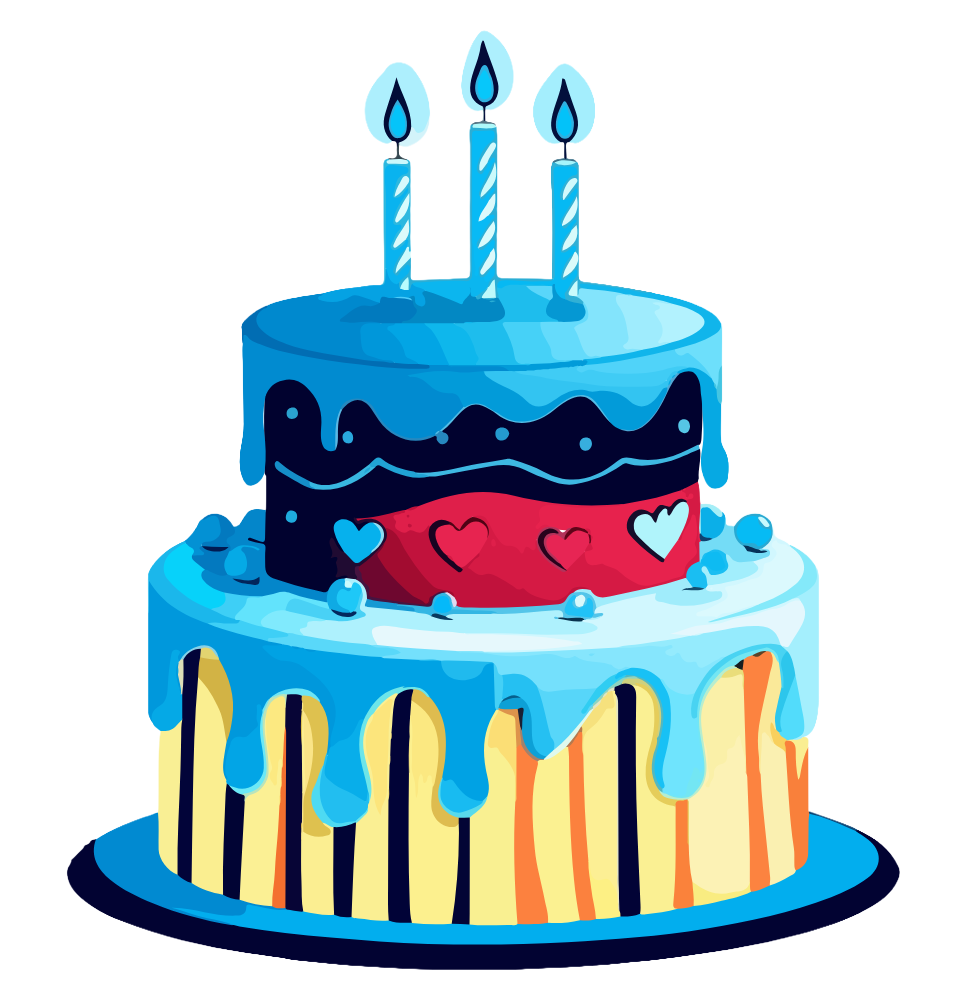
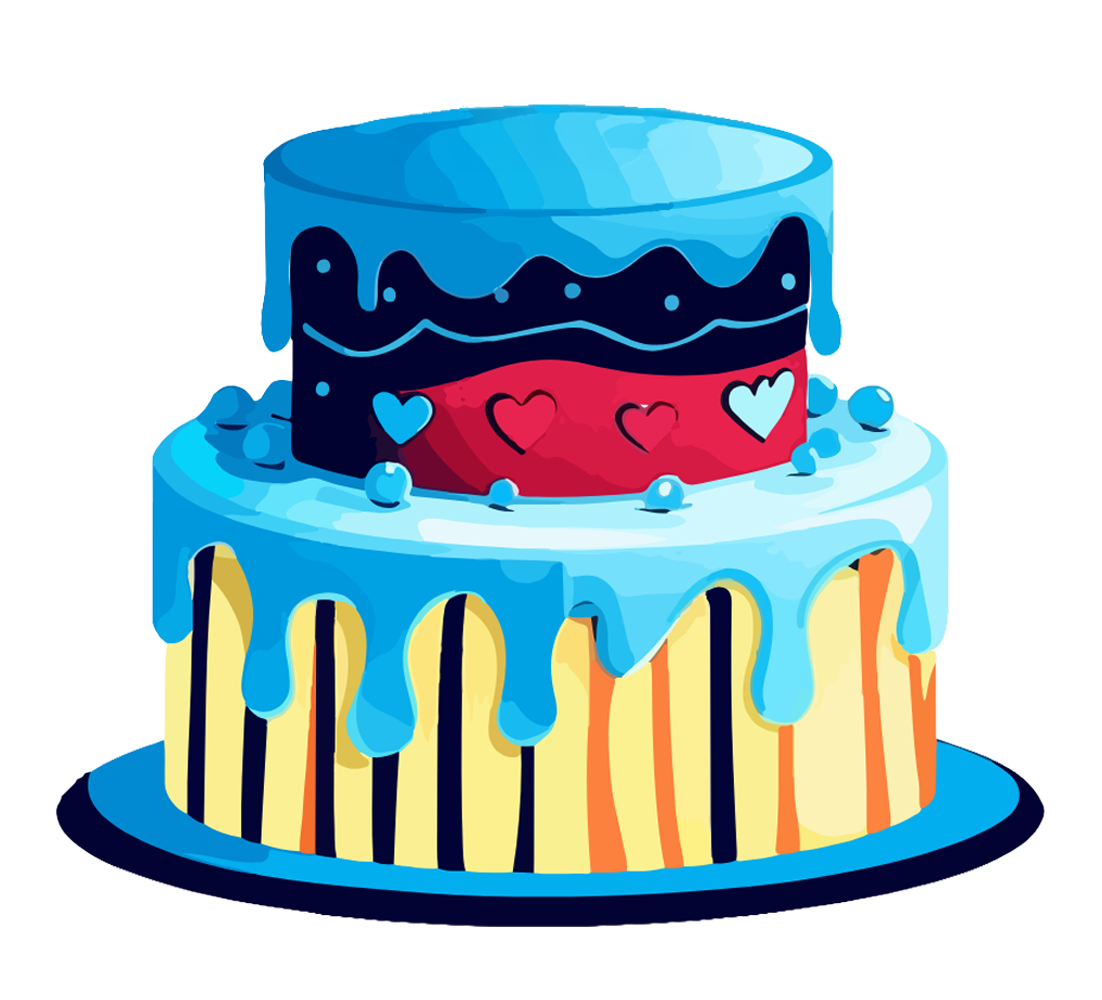
aggiorno colori

diff --git a/index.html b/index.html
@@ -28,13 +28,13 @@
             
             <div class="relative w-48 h-48 md:w-64 md:w-64 flex items-center justify-center group animate-float mt-4">
                 <div class="absolute -top-4 flex space-x-6 z-30">
-                    <div class="candle relative w-2 h-12 bg-gradient-to-t from-pink-400 to-amber-200 rounded-sm">
+                    <div class="candle relative w-2 h-12 bg-gradient-to-t from-sky-600 to-yellow-300 rounded-sm">
                         <div class="flame"></div>
                     </div>
-                    <div class="candle relative w-2 h-14 bg-gradient-to-t from-amber-200 to-pink-400 rounded-sm -top-2">
+                    <div class="candle relative w-2 h-14 bg-gradient-to-t from-yellow-300 to-sky-600 rounded-sm -top-2">
                         <div class="flame"></div>
                     </div>
-                    <div class="candle relative w-2 h-12 bg-gradient-to-t from-pink-400 to-amber-200 rounded-sm">
+                    <div class="candle relative w-2 h-12 bg-gradient-to-t from-sky-600 to-yellow-300 rounded-sm">
                         <div class="flame"></div>
                     </div>
                 </div>